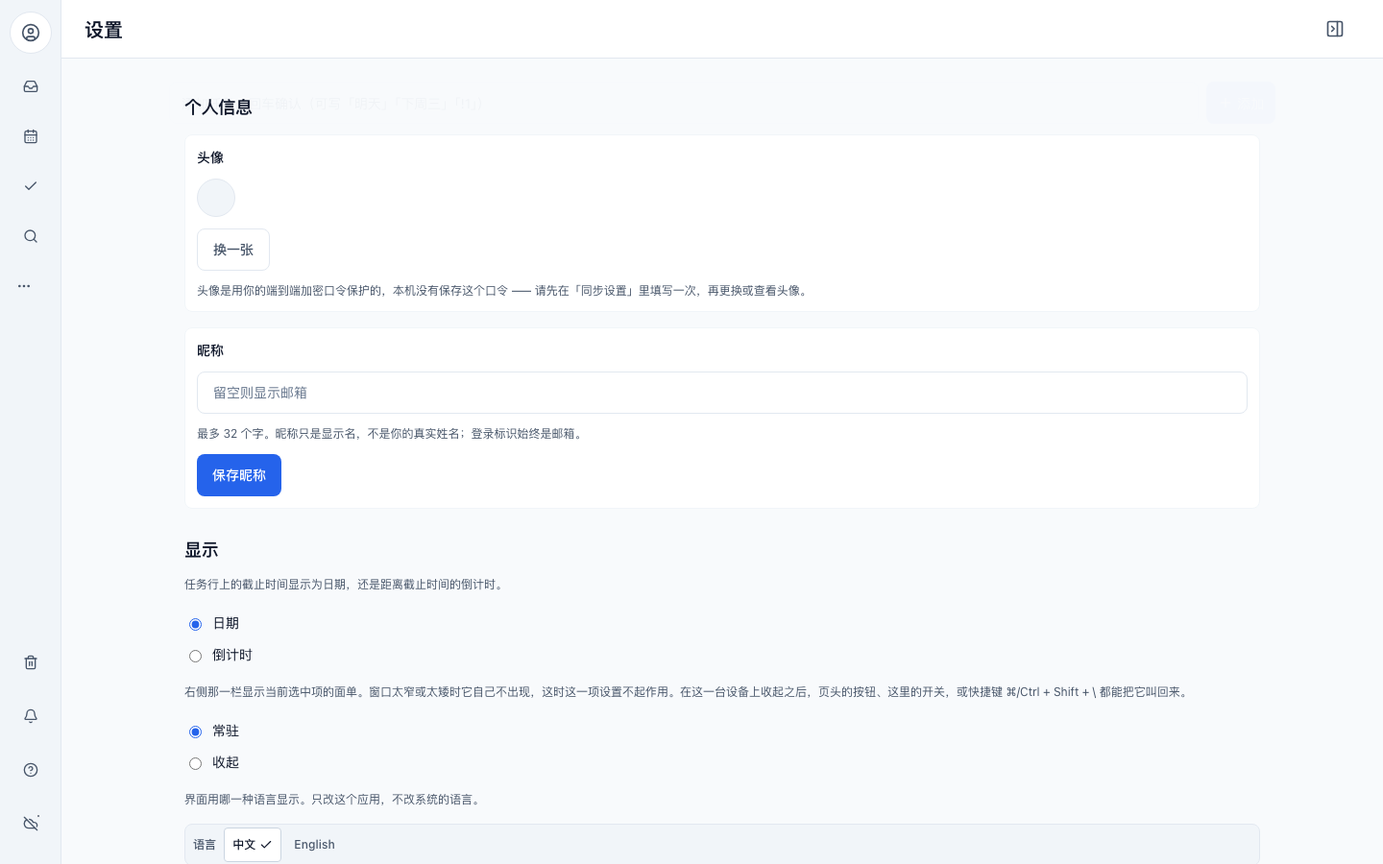
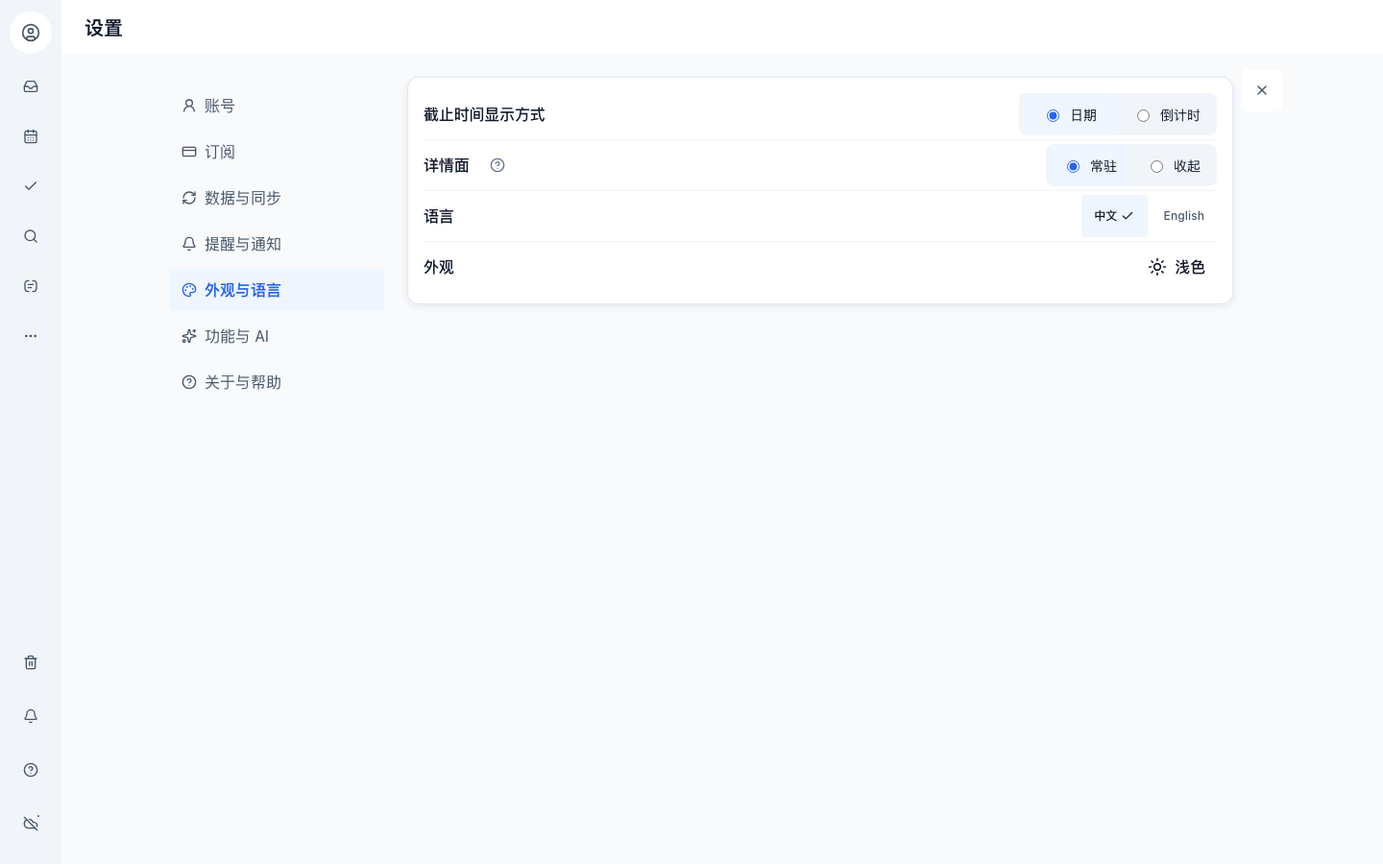
feat(design-system): 卡片改用阴影浮起 —— 不再拿页面底色换观感
上一轮试过压深页面底色，被 AA 否决（`foreground-subtle` 掉到 4.34:1，而它已是最浅一档
文字色，再深就与 `muted` 合并、两个层级塌成一个）。这一轮换 DSH 浮层卡的做法：**阴影**。

## 三档实拍对比（同一目标，1440×900，1x）

| 版本 | 结果 |
|---|---|
| 无阴影（原状） | 卡片与页面只差 **7/255**，一屏三张卡糊成一片白 |
| `shadow-sm`（`0 1px 2px / .05`） | 有效果，1x 上偏弱 |
| **`shadow-md`（`0 2px 8px / .08`）** | ✅ 采用，四边柔和落影，卡片明显浮起 |

阴影**不进对比度计算**，所以这次不需要在可读性上做任何让步 —— 这正是"对齐"该找的路：
先看 DSH 是靠什么表达的（它给浮层用 `shadow-lv3`），再找本仓等价物，而不是照抄对方的
底色数值。

## 证据

`check:tokens` / `check:design` / `check:design-token-refs` / `check:text-color` /
`check:breakpoints` / `check:l4` 全绿；design-system **546 测试**（含四端 AA）全绿。
`screenshots/web-desktop/W08-设置.png` 与 `manifest.json` 一并入库 —— 它们是这一档取值
唯一的视觉依据（改前 `d39bc685…` / 改后 `613050ee…`），不是顺手截的图。

diff --git a/apps/web/src/styles/app/sheets.css b/apps/web/src/styles/app/sheets.css
@@ -90,6 +90,17 @@
 .ht-settings__content > .ht-settings__group > div > .ht-settings {
   border: var(--ht-border-width-thin) solid var(--ht-color-border);
   border-radius: var(--ht-radius-lg);
+  /**
+   * 🔴 **卡片靠阴影浮起来，不靠压深页面底色。**
+   *
+   * 实测：卡片 `#fff` 与页面 `#f8fafc` 只差 7/255，一屏三张卡糊成一片白。
+   * 试过把页面压一档到 `slate-100`（差 14/255）—— 四端 AA 用例当场红：
+   * `foreground-subtle` 在页面底上掉到 4.34:1（要求 ≥4.5）。而它已经是最浅一档
+   * 文字色，再深一档就与 `foreground-muted` 合并，两个层级会塌成一个。
+   *
+   * ⇒ 换 DSH 浮层卡的做法：**阴影**。它不进对比度计算，所以不会拿可读性换观感。
+   */
+  box-shadow: var(--ht-shadow-md);
   background: var(--ht-color-surface);
   max-inline-size: none;
 }

diff --git a/docs/plans/task-detail-ticktick-parity.md b/docs/plans/task-detail-ticktick-parity.md
@@ -1,0 +1,137 @@
+# 任务详情面对标滴答清单：A/B/C 三档落地工单
+
+> 起源：产品负责人 2026-11-02 给出两张某对标产品的单任务界面截图（一张"更多"动作面板、
+> 一张半屏详情面板），要求「从功能上和 UX 上找差距」，随后拍定
+> 「**A、B、C 都是要做的**……你来判断依赖顺序，判断哪些优先做，然后并行执行」。
+> 需要落字裁决的三处边界在 [ADR-0083](../adr/0083-task-abandonment-fifth-state-and-share-boundary.md)。
+> 本文是**执行台账**：每格的状态只从"执行状态"那一节读，别处不许抄一份。
+
+---
+
+## 1. 差距是怎么量出来的
+
+对标对象的两个界面拆成两层看：**能力清单**（那 12 项动作有没有）与
+**结构**（首屏回答的是"这是什么任务"还是"这条记录有哪些列"）。
+后者才是主要差距，因为它决定前者补完了以后好不好用。
+
+### 1.1 半屏这条线的现状（改动前读数）
+
+| 环节 | 状态 | 证据 |
+|---|---|---|
+| 共享 `BottomSheet` 原语（把手 / 拖拽 / 三档 30·60·90 / 关闭策略表） | ✅ 有 | `packages/ui/src/overlay/BottomSheet.tsx`、`sheet-detents.ts:39` |
+| 任务详情面板迁到它 | ✅ 有 | `apps/mobile/src/screens/TaskDetailSheet.tsx:445` |
+| 默认开在哪一档 | 🔴 最大档 0.9 | `sheet-detents.ts` 的 `resolveInitialDetent`："没有记忆时用最大那一档" |
+| 记住用户上次拖到哪一档 | 🔴 钩子有、零宿主使用 | `onDetentChange` 全仓除组件自身外无调用点 |
+| 其余三枚 `*Sheet.tsx` | 🔴 仍是自绘 `Modal` + 居中 + `maxHeight:90%` | `ConflictSheet.tsx:91`、`LegalReconfirmSheet.tsx:61`、`PrivacyConsentSheet.tsx:87` |
+| 内容区往下拖能否收起 | 🔴 不能（只在把手上接拖拽） | `BottomSheet.tsx` 文件头取舍第 2 条 |
+
+结论：**地基是好的，缺的是"谁住进去"和"默认值对不对"。**
+`sheet-detents.ts` 里 medium 那一档的注释写的正是"底下还留着 40% 的上下文，
+用户能看见自己是从哪一行点进来的"——那条理由对，但没有任何面板用它当默认。
+
+### 1.2 动作面板那 12 项的逐项对账（改动前）
+
+| 对标项 | 我们 | 差在哪一层 |
+|---|---|---|
+| 置顶 | ❌ | `Task` 无字段、无 op（`pinnedAt` 只在 `CountdownEvent`）。→ ADR-0083 §3.2 |
+| 分享（单条任务） | ❌ | 只有清单级共享。→ ADR-0083 §3.3 |
+| 放弃 | ❌ | 任务无 abandoned 态。→ ADR-0083 §3.1 |
+| 删除 | ✅ | 软删进回收站（ADR-0048） |
+| 添加子任务 | ⚠ **半有** | 能挂父（`setParent` + `canSetParent`），**不能就地生一条**，也没有子任务列表/勾选/计数。`apps/mobile/tests/subtask-entry.spec.ts` 钉的是"挂父"那一格 |
+| 关联主任务 | ✅ | 上级任务 chips |
+| 开始专注 | ⚠ | 专注屏有，任务行与详情面板无入口（[row-actions-redesign §9.4](row-actions-redesign.md) 自登记） |
+| 转换为笔记 | ⚠ | 笔记模块是活的，但没有 task→note 这个 op |
+| 附件 | ❌ | 全仓无实体、无上传、无对象存储。→ ADR-0083 §3.4 |
+| 标签 | ⚠ | 能挂不能就地新建 |
+| 任务动态 | ❌ | op-log 里有历史（`engine.ts:378-385` `getOpsForEntity` + reducer 的 `FIELD_VERSIONS`），没有界面 |
+| 更多（第二层） | ❌ | 移动端没有第二层：行尾只有一枚删除图标，长按被批量选择占用 |
+
+### 1.3 结构差距（不是字段清单）
+
+1. **首屏回答的问题不同**：对标产品是"这是什么任务"（24pt 正文 + 日期状态行 + 勾选框），
+   我们是"这条记录有哪些列"（带"标题"标签的输入框 + 13 个区段全展开）。
+2. **动作区不常驻**：完成/删除在 0.9 屏的滚动内容**之外**，
+   直接违反 `docs/agents/ux-principles.md` §3（判据 S1：不滚动就能 `click()`）。
+3. **没有"次要"这个概念**：13 段平铺，违反 §4「配置项默认收起」。
+4. **面板糊住上下文**（90% 档 + 不记档位）。
+5. **行上操作移动端是空的**：Web 那套右键/滑动重设计（row-actions-redesign §9.1）
+   自己写明"设计已定，代码未改，只落了 Web"。
+
+### 1.4 ⚠ 别照旧文档下判断
+
+`docs/research/dida365-feature-benchmark.md` §2.1 里"没有备注输入框""无 `parentId`"
+"提醒全链路 0""UI 只有日期粒度"这几行**已过期** —— 这四件现在都做了。
+该文档 §3 的"撞名清单"方法仍然有效，但逐格读数要现量。
+
+同一类漂移在 [ADR-0048](../adr/0048-deletion-four-states-and-the-no-physical-erase-boundary.md) §4 里也有一处：
+它写 `archived` 的动作层 list 分裂（W9）**尚未落**，但 2026-11-02 现量它已经落了 ——
+`packages/app-host/src/project-actions.ts:148` 的 `listProjects()` 与 `:155`
+的 `listArchivedProjects()` 都在，且注释明说界面上「显示已归档」开关的数据源是后者。
+本工单与 ADR-0083 §3.1 引用的正是**这个已落地的形状**，不是那份旧读数。
+（不改 0048 的结论，只在这里记下它这句状态说明已经漂了。）
+
+---
+
+## 2. 三档切法与依赖顺序
+
+| 档 | 判据 | 项 |
+|---|---|---|
+| **A** | 不碰数据模型 | 面板重排、默认档 + 记档、头部三件套、逾期状态行 + 顺延、行操作（长按菜单 / 左滑）、三枚 Sheet 迁移 |
+| **B** | 要新 op，不碰不可逆层 | 就地添加子任务、子任务列表/勾选/计数、标签就地新建 |
+| **C** | 碰实体清单或状态机（🔴 不可逆层） | 置顶、放弃、附件、任务动态、单条任务分享 |
+
+依赖：**C 的字段/实体是 A、B 接线的输入；A 的结构定型是 B、C 界面落点的输入。**
+所以按阶段走，而不是按档位走 —— 同阶段内并行，跨阶段串行。
+
+---
+
+## 3. 执行状态（**唯一事实源**，逐格现量）
+
+图例：⏳ 未开始 · 🔄 在跑 · ✅ 已落 · 🔴 受阻（写清卡在谁手里）
+
+| # | 项 | 档 | 状态 | 落点 / 读数 |
+|---|---|---|---|---|
+| 1 | 置顶 `Task.pinnedAt` + op + actions + 排序 | C | ✅ | `packages/domain/src/entities.ts`（`pinnedAt` + `byPinnedFirst`）、`packages/app-host/src/actions.ts`（`setPinned`）；11 条用例绿，变异验证过能红 |
+| 2 | 放弃 `Task.abandonedAt` + 动作层 list 分裂（I5） | C | 🔄 | 字段 + `isAbandoned` + `setAbandoned` + `listTasks()`/`listAbandonedTasks()` 分裂出口已落；🔴 **剩四处"既不滤也没人滤"的下游未收敛**（见 §5） |
+| 3 | 任务动态：op-log → 变更流水读路径 | C | ⏳ | 底座已确认：`engine.getOpsForEntity('TASK', id)` 可用（`actions.spec.ts` 自己就在用它） |
+| 4 | `BottomSheet` 默认 medium + 档位记忆 + 头部拖拽 | A | ✅ | `sheet-detents.ts`（`DEFAULT_SHEET_DETENT` + `resolveDetentSeed` 三级优先）、`sheet-drag.ts`（新，`body`/`closeButton` 刻意不在表内）、`BottomSheet.tsx` 接线 + 迟到的记忆"只采纳不回写"；26 条判据绿、`check:overlay` 账本无新增 |
+| 5 | 移动端行操作：长按菜单 + 左滑 | A | ⏳ | 旧默认档那条断言已被推翻（`overlay-sheet-detents.spec.ts` 里写着为什么） |
+| 6 | 其余三枚 Sheet 迁到共享原语 | A | ⏳ | 原语侧新增的 `rememberedDetent` 与拖拽区域表可直接用 |
+| 7 | 详情面板重排（内容层 + 折叠层 + 头部三件套） | A | ⏳ | 依赖 #4（已解锁）。🔴 必须同时满足 `ux-principles.md` §3「动作区常驻」—— 现在完成/删除在滚动内容之外，是**现成的违规** |
+| 8 | 逾期状态行 + 接 `postponeToToday` | A | ⏳ | 依赖 #7；`actions.ts:275` 已有动作，移动端零调用点 |
+| 9 | 就地添加子任务 + 子任务列表/勾选/计数 | B | ⏳ | 依赖 #7 |
+| 10 | 标签就地新建 | B | ⏳ | 依赖 #7 |
+| 11 | 置顶/放弃/动态 接线到界面（含"已放弃"出口） | C | ⏳ | 依赖 #1/#2/#3/#5/#7。宿主**不许**自己 filter 放弃态，只能调 `listAbandonedTasks()` |
+| 12 | 附件：实体物化 + blob 通道 + 界面 | C | ⏳ | 依赖 #1/#2（同文件）、#7（同落点） |
+| 13 | 单条任务分享（发送到共享清单） | C | ⏳ | 依赖 #7；公开链接**不在本轮**（ADR-0083 §3.3） |
+| 14 | 门禁与验收串行跑 | — | 🔄 | 已过：`@heyta/ui` 834 条、`@heyta/domain` 1116 条、`@heyta/app-host` 2120 条、`check:overlay` |
+
+## 3.1 两条不属于本轮的红（现量，会过期）
+
+| 红 | 归因 | 依据 |
+|---|---|---|
+| `packages/domain/tests/habit-backfill.spec.ts` B8 | 🔴 **门禁自身的缺陷**，不是产品缺陷 | 报的是 `ENOENT .../apps/mobile/ios/Pods/Headers/.../RCTAppDependencyProvider.h` —— 它的源码扫描 `walk()` 会遍历到 iOS 原生构建目录，任何人跑一次 `pod install` 它就红 |
+| `packages/domain/tests/lunar.spec.ts` 逐日往返；`packages/app-host/tests/share-key-store.spec.ts` 信封往返 | 负载下的不确定性超时 | 同一命令两次跑出 **1 红**与 **4 红**，且两次都是 `Test timed out in 5000ms`；被测对象（农历换算 / 共享密钥信封）与本轮改的 Task 态无交集 |
+
+### 3.1 并发前提（本轮开工时的读数，会过期）
+
+工作树在本轮开工时**不干净**：另一条会话有 20 个未提交文件在飞
+（`packages/ai/**`、`apps/web/src/App.tsx`、`packages/i18n/src/locales/**`、
+`apps/landing/src/mockup/app-shell-shape.ts` 等）。
+本轮所有作业**不碰**那批文件；`packages/i18n/**` 与所有 `index.ts` 导出桶
+由主线统一改，避免并发覆盖。
+基线红一条且不属于本轮：`apps/landing/tests/mockup-shell-shape.spec.tsx:563`
+（`optionKey` 不存在）。
+
+---
+
+## 4. 明确不做（每项写清为什么）
+
+| 项 | 不做的原因 | 什么条件下重判 |
+|---|---|---|
+| 单条任务的**公开只读链接** | 可行性取决于对端账号的加密档位（ADR-0081），且转发后无法撤销；要先解决密钥分发（ADR-0062 那一份的独立问题） | 有人为"公开链"单独写一份密钥分发与撤销的 ADR |
+| 用 `completedAt` 冒充"放弃" | 会污染完成率统计与重复任务的推进 | 永远不做 |
+| 各宿主自己 filter `abandonedAt` | ADR-0048 I5 点名的失效形状，四条实测缺陷的共同根因 | 永远不做 |
+| 给附件单独加强制 E2EE | 违反 ADR-0081：加密是整库档位，不给单类数据开例外 | 用户显式开启 E2EE 时自然覆盖到它 |
+| 内容区任意位置下拉收起面板 | 无 gesture-handler 时与 ScrollView 的滚动协调做不对，"想滚却把面板关了"比没有更糟 | 引入 gesture-handler 且过 §3.1/§3.2 两道门 |
+| 全滑直删 | row-actions-redesign §9.3 明文采用"露出动作、点击执行" | 配撤销回执与"误触后能反悔"的证据之后 |

diff --git a/docs/adr/0083-task-abandonment-fifth-state-and-share-boundary.md b/docs/adr/0083-task-abandonment-fifth-state-and-share-boundary.md
@@ -1,0 +1,132 @@
+# ADR-0083：任务加第五态「放弃」，以及置顶 / 分享 / 附件的三条边界
+
+> 状态：**已接受**（产品负责人 2026-11-02 授权本轮按对标滴答清单补齐单任务面，
+> 并明示「A、B、C 都是要做的……你来判断依赖顺序」；本文那三条需要裁决的边界由本轮拍定）
+> 日期：2026-11-02
+> 取代：**[ADR-0048](0048-deletion-four-states-and-the-no-physical-erase-boundary.md) §2 的「四个互相独立的状态」中的"四个"**
+> —— 本 ADR 给任务加第五态。0048 的其余结论**一条不动**，尤其是
+> §3 那条「`purgedAt` 不是物理擦除，也不许被宣传成物理擦除」与 §4 的不变量 **I5**。
+> 相关：[ADR-0044](0044-countdown-anniversary-entity-calendar-data-and-image-tiers.md)（`EVENT.pinnedAt` 先例）、
+> [ADR-0081](0081-encryption-is-opt-in-not-default.md)（默认不加密，E2EE 是显式开启的整库档位）、
+> [ADR-0062](0062-shared-list-key-distribution.md) 与
+> [ADR-0068](0068-share-member-identity-and-content-publication.md)（共享清单的钥匙分发与成员内容发布 ——
+> §3.3 选成员制而不是公开链接，依据就是这两份已经把钥匙分发当独立问题处理过的先例）。
+> 证据：本文所有 `file:line` 是 **2026-11-02 的读数**。落地工单：
+> [任务详情面对标滴答清单](../plans/task-detail-ticktick-parity.md)。
+
+---
+
+## 1. 为什么需要这份 ADR
+
+对标滴答清单的单任务界面时，它任务行菜单上的四项在我们这里**根本不存在**
+（逐项对账见工单 §2）：置顶、放弃、分享（单条任务）、附件。
+其中三项不是"加个按钮"，而是**会长期改变数据形状与对外承诺**的决定，
+而仓库里已有的裁决恰好管着它们：
+
+| 要做的事 | 撞上的既有裁决 | 冲突点 |
+|---|---|---|
+| 放弃 | [ADR-0048](0048-deletion-four-states-and-the-no-physical-erase-boundary.md) §2 | 它把任务生命周期钉成**四个**互相独立的状态。加第五态 = 改它的结论，按 AGENTS.md「不改已接受的 ADR 的结论，要变更就新写一份」 |
+| 放弃的"隐藏" | 同 ADR 的 **I5**：「隐藏由层负责，不由调用点负责」 | 0048 用四条实测缺陷（D1/D8/D9/D11）证明：把"要不要显示"留在调用方手里，**必然**出现"同一件事两端不同答案，且都不报错" |
+| 置顶 | `packages/domain/src/entities.ts:698-702` 与 `notes.ts` 文件头 | 已有明文规则：**一个字段同时就是"排在最前"**，不许另设 `isPinned` / `sortOrder`（两个字段必然在一次编辑里漂移） |
+| 单条任务分享 | [ADR-0081](0081-encryption-is-opt-in-not-default.md) | 加密是**用户显式开启**的整库档位 ⇒ 任何"把内容交给服务端渲染"的功能，在开了 E2EE 的账号上行为不同 |
+
+这四项里最贵的是**放弃**。它看起来是个字段，实际是给状态机加一格，
+而加错形状的后果 0048 已经替我们付过一次学费。
+
+## 2. 选项
+
+### 2.1 「放弃」怎么表达
+
+| 选项 | 优点 | 缺点 | 关键证据 |
+|---|---|---|---|
+| **A. 复用 `completedAt`，界面上叫"放弃"** | 零 schema 变更 | 撒谎。放弃的任务不该进"已完成"统计、不该算完成率、不该被重复任务推进到下一周期 | 完成语义由 `setCompleted` 与重复顺延共用（`packages/app-host/src/actions.ts:331-348`） |
+| **B. 复用 `deletedAt`（进回收站）** | 零 schema 变更 | 后果不可接受：回收站里的任务会被"彻底删除"这条链走下去，而放弃的人并不想丢数据；且回收站有还原入口，语义与"我不做了但留着"不同 | ADR-0048 §2 的四态表 |
+| **C. 新可选字段 `abandonedAt`，隐藏归**动作层的 list 分裂**** | 与 `Project.archived` 同一条已验证的形状（W9：`listProjects()` 不含归档 + `listArchivedProjects()` 只含归档）；不 bump schema；可逆 | 多一个态，所有 TASK 读路径都要检查自己是不是走的是分裂后的出口 | `packages/domain/src/search.ts` 的 `aliveTasks` 内部过滤（A1 已落）是同一形状的领域层版本 |
+| **D. 新字段，但由各宿主自己 filter** | 最快 | 🔴 **正是 I5 点名的失效形状**。实测过：`archived` 的过滤当时只住在共享 UI（`packages/ui/src/projects/model.ts:107`），于是归档清单对 AI / MCP / CLI 全可见 | ADR-0048 §1 表格第三行 |
+
+### 2.2 单条任务怎么分享
+
+| 选项 | 优点 | 缺点 |
+|---|---|---|
+| **A. 公开只读链接**（服务端渲染） | 与滴答一致 | 🔴 可行性取决于对端账号的加密档位：默认 `readable` 的账号能做，开了 E2EE 的账号服务端读不到明文，只能把密钥塞进 URL fragment —— 那是一个**新的密钥分发面**，且链接一旦转发就无法撤销。同一功能两档不同答案，是 0048 表格里"两端不同答案"的形状 |
+| **B. 发送到共享清单**（成员制） | 复用已落地的 share op-log 与 role 硬门（`server/src/shares/share.membership.ts`）；撤销 = 移出成员，语义现成 | 不是"发给任意一个人一个链接"，接收方要先在共享空间里 |
+| **C. 复制到剪贴板（纯文本）** | 零风险 | 不算分享，且我们已有的是"导出"而不是它 |
+
+### 2.3 附件的加密口径
+
+| 选项 | 结论 |
+|---|---|
+| A. 附件一律端到端加密 | 🔴 违反 [ADR-0081](0081-encryption-is-opt-in-not-default.md)：加密不再是默认，也不该给某一类数据单独加档 |
+| B. 附件一律明文 | 🔴 违反 ADR-0081 的另一半：开启 E2EE 的账号，整库都要跟着转密文，不能有例外 |
+| **C. 跟随用户的整库档位** | ✅ 与任务正文同一条通道、同一次整库迁移覆盖，不新增"按钥匙取密文"的形态 |
+
+## 3. 结论
+
+### 3.1 「放弃」是任务的第五个独立状态，隐藏由**动作层**负责
+
+```
+   alive ──abandon──► abandoned ──unabandon──► alive
+      │                                          ▲
+      ├──complete──► completed ──取消勾选─────────┤
+      │                                          │
+      └──delete───► trashed ──purge──► purged    │
+                     │                           │
+                     └──── restore ──────────────┘
+```
+
+1. 字段是 `Task.abandonedAt?: number`（可选 + 运行时默认，**不 bump `CURRENT_SCHEMA_VERSION`**，
+   依据 `packages/domain/src/subtasks.ts:592-602` 那条"加可选字段不用 bump"的实测论证）。
+   清除写 `null`，reducer 翻成删除字段。
+2. 🔴 **隐藏归动作层的 list 分裂**，照 `Project.archived` 的 W9 形状：
+   默认出口不含已放弃，另给一个只含已放弃的出口。领域层的 `aliveTasks` 一类谓词
+   **不**把"已放弃"算成"不存活"—— 它没进回收站，统计与恢复都要看得见它。
+   判据与 0048 I5 同一条：**把原始任务表整个递给宿主，也不得出现已放弃的任务**。
+3. 放弃与完成**互不推导**：放弃不写 `completedAt`，不计入完成率，
+   不被重复任务的"完成即推进"顺移到下一周期。
+4. 恢复 = `UPD { abandonedAt: null }`，回到 alive，不经过回收站。
+
+### 3.2 置顶只有一个字段
+
+`Task.pinnedAt?: number`，它**同时**是"排在最前"。不设 `isPinned`、不设 `sortOrder`。
+先例是 `CountdownEvent.pinnedAt`（`entities.ts:702`）与 `Note.isPinnedToToday`。
+排序里置顶的优先级高于既有排序键，但**只作用于同一分组内部** ——
+把一条置顶任务从"明天"拽到"今天"是错的，那是排程语义，不是注意力语义。
+
+### 3.3 单条任务分享走成员制，公开只读链**不在本轮**
+
+选 **2.2 B**。公开链接要先回答"开了 E2EE 的账号怎么办"与"转发出去怎么撤销"两问，
+那是一次独立的密钥分发设计，另立 ADR，不在本轮顺手做。
+本轮界面上一律说「发送到共享清单」，**不许**写「分享链接」——那是对没做的功能的承诺。
+
+### 3.4 附件跟随整库档位
+
+新实体 `ATTACHMENT` 按 [REMINDER 的物化模板](../plans/site-and-parity-alignment.md)落地
+（`ENTITY_TYPES` → `BUCKET_BY_ENTITY` → `EntityModelMap` → 写路径 → `ACTION_FAMILIES` 登记）。
+字节走服务端 blob 通道，计量复用既有 `storageQuotaBytes` / `payloadBytes`。
+加密口径按 §2.3 C。
+
+## 4. 后果
+
+1. **五个态而不是四个**，所有"这条任务算不算存在"的判断都要重新问一遍自己指的是哪一态。
+   这是本 ADR 的主要成本，也是它必须落字的原因。
+2. I5 的形状多一处要守：新增任何 TASK 列表出口（含 AI 工具、MCP、CLI、导出、搜索）
+   都必须走动作层的分裂出口，不许直接吃物化状态里的原始 `tasks` 表。
+   判据：把原始表整个递进去也不得出现已放弃任务 —— 这条要能红。
+3. 「已放弃」需要一个用户看得见的出口，否则它是**只进不出**的抽屉。
+   本轮同时交付出口（回收站旁边那一档），不做"放弃了但只能靠改数据找回"。
+4. 公开只读链接这个决定**让后面更难做**：一旦有了成员制的任务分享，
+   再引入公开链就要同时解释两种分享的区别。这是有意的取舍。
+5. 附件进 `EntityModelMap` 那天，`check:ai-coverage` 的分母 +1，
+   要么同批补读写工具，要么登记 `ENTITY_COVERAGE_DEBT`（`entity-types.ts` 里 COMMENT 那条已写明）。
+
+## 5. 未核实项
+
+1. **重复任务 × 放弃**：一条 `repeatRule` 的任务被放弃后，调度器会不会仍然生成下一周期？
+   本轮按"不会"实现（放弃即停止推进），但这条**没有实测**，要有一条能红的用例。
+2. **共享清单里的放弃**：成员 A 放弃一条共享任务，成员 B 的默认视图该不该看见它？
+   本轮按"与个人任务同一条规则"实现，但共享场景的口径没人拍过。
+3. **`abandonedAt` 与提醒投递**：已放弃任务的提醒要不要继续投递？
+   0048 的 D1 记录过"已软删任务的提醒仍会投递"这个真实缺陷，本轮**只处理了软删那一支**，
+   放弃这一支的投递行为要在验收时量一次，不许照抄"应该也滤掉了"。
+4. **附件的配额与单文件大小上限**：`storageQuotaBytes` 是账号级总量，
+   单文件上限与 MIME 白名单本轮取值是照头像那条先例定的，**不是**产品研究结论。

diff --git a/docs/reference/design-alignment-dsh.md b/docs/reference/design-alignment-dsh.md
@@ -58,8 +58,25 @@ grep -nE "\-\-ht-(font-size|radius|space)-" packages/design-system/src/tokens.cs
 | 卡片边 | **0.5px**（三张卡全一样） | `border-width-thin` 1px | ✅ 新增 `hairline`；**1x 用 1px、2x 才用 0.5px**（理由见 §3.1） |
 | 卡片 padding | `12×16`（HoverCard）/ `16×20`（AskQuestionCard）| `space-4` 四边 16 | ⏸ 未改（见 §6） |
 | 卡片内 gap | 8 / 16 | `space-1` 4 | ⏸ **刻意不改**：那个 4 有实测依据（52+4=56，落在 macOS 44–56 上沿，见 `sheets.css` 的注释） |
+| 卡片浮起 | HoverCard `shadow-lv3` | 无 | ✅ 设置卡加 `--ht-shadow-md`（见 §3.3） |
 | 卡片内正文 | 14（`--dsh-content-font-size` 默认 14） | 已落在 11–14 区间 | ✓ |
 | 间距档 | gap 8×15 / 6×9 / 4×8 / 12×8 | `4/8/12/16/20/24…` | **6 与 10 仍缺**（见 §6） |
+
+### 3.3 卡片靠**阴影**浮起来 —— 绕开对比度的那条路
+
+页面底色那条路被 AA 否决之后（§3.2），换成 DSH 浮层卡的做法：**阴影**。
+它不进对比度计算，所以不会拿可读性换观感。
+
+三档实拍对比（同一目标 `W08-设置`，1440×900，1x）：
+
+| 版本 | 结果 |
+|---|---|
+| 无阴影（原状） | 卡片与页面只差 7/255，读起来是"一屏白" |
+| `--ht-shadow-sm`（`0 1px 2px / 0.05`） | 有效果，但在 1x 上偏弱（像素确已变化） |
+| **`--ht-shadow-md`（`0 2px 8px / 0.08`）** | ✅ 采用：卡片明显浮起，四边都有柔和的落影 |
+
+判据落地：`screenshots/web-desktop/W08-设置.png` 与本文件一起入库 —— 它不是"顺手截的图"，
+是这一档取值**唯一**的视觉依据（改前 `d39bc685…` / 改后 `613050ee…`）。
 
 ### 3.2 页面底色：一次**被门禁否决**的对齐尝试
 
